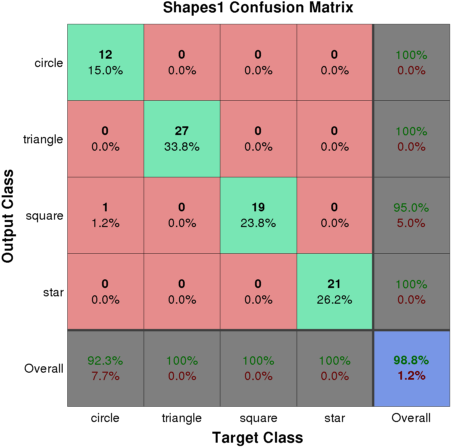
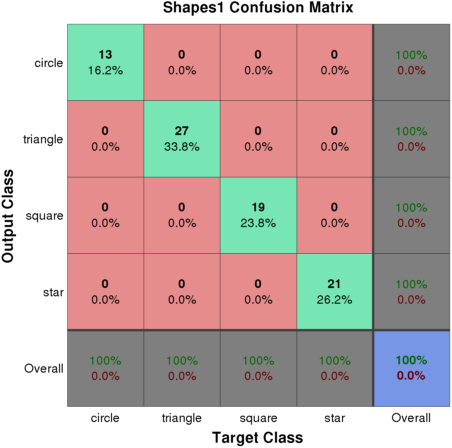
Added more images, updated confusion matrices.

diff --git a/1/report/report.tex b/1/report/report.tex
@@ -458,7 +458,7 @@ within their local neighborhoods.
 \subfigure[Response]{\includegraphics[width=0.15\textwidth]{square_response}}\\
 \subfigure[$G * I_y^2$]{\includegraphics[width=0.15\textwidth]{square_sx2_smoothed}}
 \subfigure[$G * I_x^2$]{\includegraphics[width=0.15\textwidth]{square_sy2_smoothed}}
-\subfigure[$G * I_xy$]{\includegraphics[width=0.15\textwidth]{square_sxy_smoothed}}
+\subfigure[$G * I_x I_y$]{\includegraphics[width=0.15\textwidth]{square_sxy_smoothed}}
 \caption{The resulting response of the Harris corner detector with the componentes
 used to compute it visualized.}
 \end{figure}
@@ -493,34 +493,63 @@ Finally, we compute the Eigenvalues of the filtered images. The largest two tell
 \subsection{Shape Classification}
 The classification of a shape is actually the simplest processing step. 
 We count the number of detected corners from the previous step. 
+Using a simple heuristic we reject blobs that only have very little response from the Harris 
+detector (in value as well as in blob size, more closely explained in Figure \ref{fig:blob_rejection}).
 There is a one to one correspondence between the number of detected corners and the shape classes
 we are dealing with (See again \ref{fig:tranformed_elementary_shapes}.
 However, when given a circular shape, our Harris detector does not always return zero corners. 
 Thus, if we have less than 3 corners detected, we assume we found a circle. 
-Similarly, for the star, we classify a shape as a star if 5 or more corners are detected.
+Similarly, we classify a shape as a star if 5 or more corners are detected.
 
 \begin{figure}%
 \centering
-\subfigure[Triangle with fringes.]{\includegraphics[width=0.1\textwidth]{triangle_noisy} \label{fig:triangle_fringes}}
-\subfigure[Preprocessed]{\includegraphics[width=0.1\textwidth]{triangle_noisy_preprocessed}} \\
-\subfigure[Response]{\includegraphics[width=0.1\textwidth]{triangle_noisy_response_with_rect}}
-\subfigure[Detail of response]{\includegraphics[width=0.1\textwidth]{triangle_noisy_detail_response}}
-\caption{Nasty double peak and tiny thingy}
-
-\end{figure}% subsection corner_detection (end)
+\subfigure[Original]{\includegraphics[width=0.2\textwidth]{square_noisy} \label{fig:triangle_fringes}}
+\subfigure[Preprocessed]{\includegraphics[width=0.2\textwidth]{square_noisy_preprocessed}} \\
+\subfigure[Response]{\includegraphics[width=0.2\textwidth]{square_noisy_response_with_rect}}
+\subfigure[Detail of response]{\includegraphics[width=0.2\textwidth]{square_noisy_detail_response}}
+\caption{For this square, we have a very low response for one of the corners. 
+An oversimplifed thresholding results in wrongfully rejecting too many corners. 
+For this reason, we mainly depend on the blob size for
+rejection of weak corner responses.}
+\label{fig:blob_rejection}
+\end{figure}
 
 \section{Results}
+\label{sec:results}
 
-For images without noise we achieve a recognition rate of 100\%. 
+Throughout all degeneration types we achieved good results as can be seen in the confusion matrices
+for the given test files (See Figure \ref{fig:confusion_matrices}). 
+While images without degenerations were classified perfectly without exception, 
+there were some squares confused with stars in heavily degenerated data sets. 
+We chose detection thresholds depending on the preprocessing applied in step 3.
+Details can be seen in the code delivered with the report.
+ 
+\begin{figure}[ht!]%
+\centering
+\subfigure[No noise]{
+\includegraphics[width=0.2\textwidth]{confusion_matrix_Shapes1}
+}
+\subfigure[Salt and pepper noise]{
+\includegraphics[width=0.2\textwidth]{confusion_matrix_Shapes2N2B}
+}
+\subfigure[Fringes]{
+\includegraphics[width=0.2\textwidth]{confusion_matrix_Shapes_Noise_Heavy_Validation}
+}
+\subfigure[Gaussian noise]{
+\includegraphics[width=0.2\textwidth]{confusion_matrix_Shapes0_gaussian_noise}
+}
+\caption{blah}
+\label{fig:confusion_matrices}
+\end{figure}
 
 \section{Conclusion}
-In this work we described an algorithm capable to classify the type of a shape in a given image. For this purpose we are relying on a Harris corner detector. Thanks to an advanced preprocessing step, our classifier still works sufficiently well even if a input images suffers from issues such as noise or fringes. In conclusion, we have seen that our classifier has a detection rate of about 95 percentage. In addition we extended that it can handle images that suffer from Gaussian noise. The detection rate was similar well as for other data sets.
+In this work we described an algorithm capable to classify the type of a shape in a given image. For this purpose we are relying on a Harris corner detector. 
+Thanks to an advanced preprocessing step, our classifier still works sufficiently well even if a input images suffers from issues such as noise or fringes. In conclusion, we have seen that our classifier has a detection rate of about 95 percentage. In addition we extended that it can handle images that suffer from Gaussian noise. The detection rate was similar well as for other data sets.
 
 Currently, our classifier is limit to binary valued images. Furthermore it fails detecting corners of extremely smoothed shapes such as circles \footnote{In our corner to shape classification we assume that circles exhibit fewer than three corners} due to our corner detector algorithm.
 
 For future work we could try to implement a probabilistic detection model that is based on machine learning. Furthermore we could try to classify arbitrary shapes such as letters for example. Another interesting idea would be to handle different types of noise distributions or combinations of image issues. Lastly, could enhance the Gaussian noise correction by assuming a different, non-linear noise degradation model. 
 
-\label{sec:results}
 
 % section results (end)
 % An example of a floating figure using the graphicx package.
@@ -614,22 +643,6 @@ For future work we could try to implement a probabilistic detection model that i
 % The "triggered" command can be changed if desired:
 %\IEEEtriggercmd{\enlargethispage{-5in}}
 
-\appendix[Confusion matrices for various noise conditions]
-\begin{figure}%
-\centering
-\subfigure[No noise]{
-\includegraphics[width=0.2\textwidth]{confusion_matrix_Shapes1}
-}~
-\subfigure[Salt and pepper noise]{
-\includegraphics[width=0.2\textwidth]{confusion_matrix_Shapes2N2B}
-}
-\subfigure[Fringes]{
-\includegraphics[width=0.2\textwidth]{confusion_matrix_Shapes_Noise_Heavy_Validation}
-}~
-\subfigure[Gaussian noise]{
-\includegraphics[width=0.2\textwidth]{confusion_matrix_Shapes0_gaussian_noise}
-}
-\end{figure}
 \bibliographystyle{IEEEtran}
 \bibliography{IEEEabrv,report}
 \end{document}

diff --git a/1/demo.m b/1/demo.m
@@ -7,7 +7,7 @@ close all;
 verbose = false;
 
 
-files = {{'Shapes0', ''}, {'Shapes1', '', 'N1'}, ...
+files = {{'Shapes0', '', '_gaussian_noise'}, {'Shapes1', '', 'N1'}, ...
     {'Shapes2', '', 'N2A', 'N2B'}, {'Shapes_Border_Easy_Validation', '' }, ...
     {'Shapes_Border_Medium_Validation', '' }, ...
     {'Shapes_Border_Heavy_Validation', '' }, ...
@@ -24,8 +24,9 @@ for filenum = 1:numel(files)
         suffix = char(cell{i});
         fprintf(['Doing ', filename, suffix, '\n']);
         [ img, img_preprocessed, responses, failures, targets, outputs, hits ] = classifyShapes(filename, suffix, verbose);
-        if verbose
+        if true
             runEvaluation(img, img_preprocessed, responses, failures, targets, outputs, hits , filename, suffix);
         end
+        close all
     end
 end
